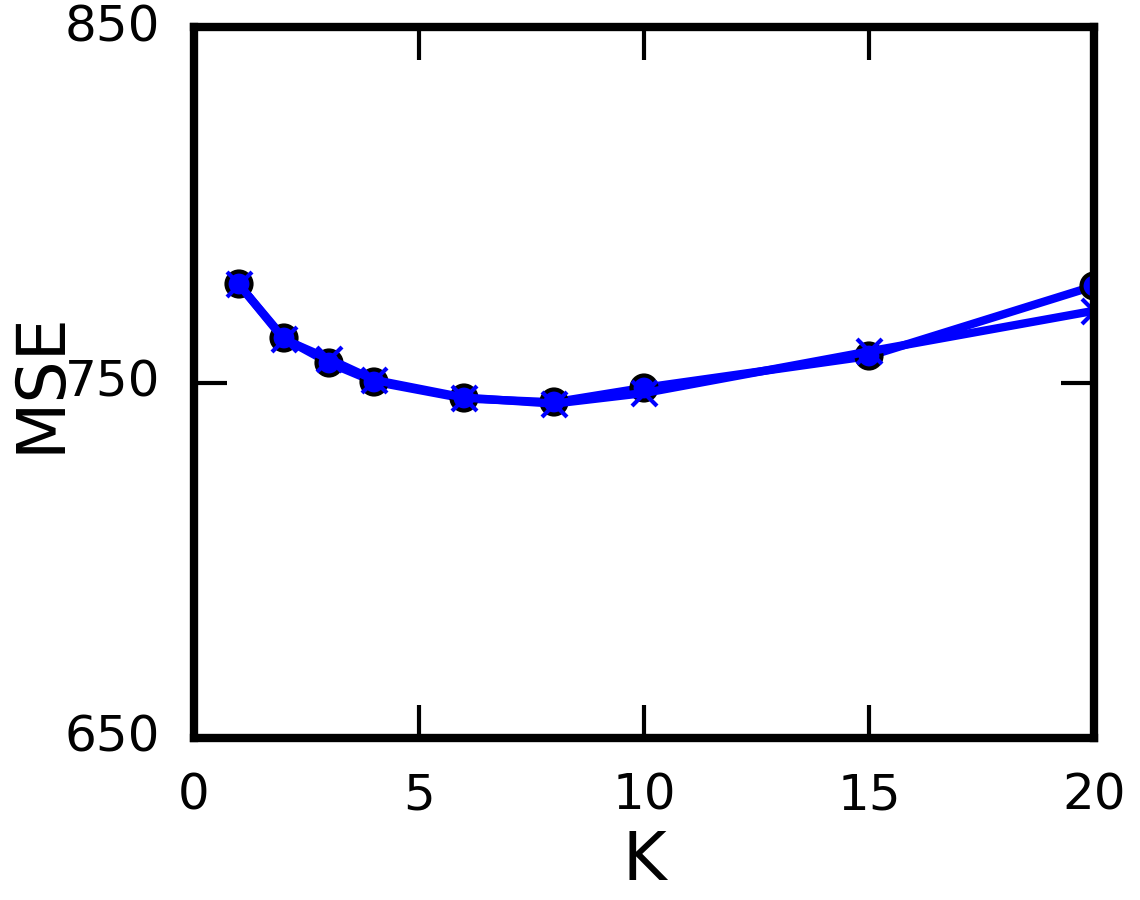
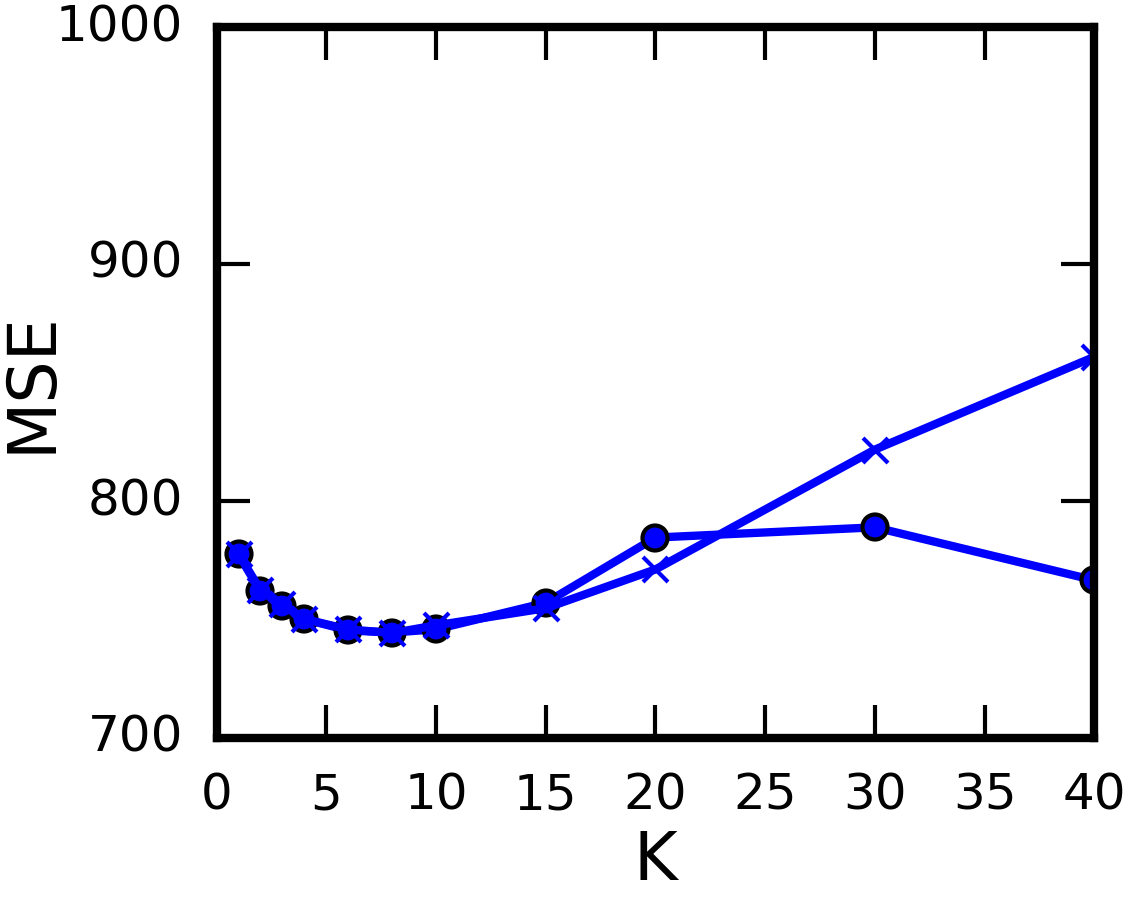
Ran cross-validation on CTRP for NMF methods.

diff --git a/experiments/experiments_ctrp/cross_validation/nmf_icm_ard/nmf_icm_ard_xval.py b/experiments/experiments_ctrp/cross_validation/nmf_icm_ard/nmf_icm_ard_xval.py
@@ -2,7 +2,7 @@
 Run the nested cross-validation for the ICM NMF class with ARD, on the CTRP dataset.
 """
 
-project_location = "/home/tab43/Documents/Projects/libraries/" # "/Users/thomasbrouwer/Documents/Projects/libraries/"
+project_location = "/Users/thomasbrouwer/Documents/Projects/libraries/"
 import sys
 sys.path.append(project_location)
 
@@ -21,11 +21,11 @@ alpha0, beta0 = 1., 1.
 hyperparams = { 'alphatau':alphatau, 'betatau':betatau, 'alpha0':alpha0, 'beta0':beta0, 'lambdaU':lambdaU, 'lambdaV':lambdaV }
 
 train_config = {
-    'iterations' : 200,
+    'iterations' : 500,
     'init_UV' : 'random',
 }
 predict_config = {
-    'burn_in' : 180,
+    'burn_in' : 450,
     'thinning' : 2,
 }
 parameters = {'K':K, 'ARD':ARD, 'hyperparameters':hyperparams}

diff --git a/experiments/experiments_ctrp/model_selection/plots/plot_nmf_gibbs_model_selection.py b/experiments/experiments_ctrp/model_selection/plots/plot_nmf_gibbs_model_selection.py
@@ -8,8 +8,8 @@ import numpy
 
 ''' Plot settings. '''
 metrics = ['MSE']#['MSE','R^2','Rp']
-MSE_min, MSE_max = 650, 850
-values_K = [1,2,3,4,6,8,10,15,20]
+MSE_min, MSE_max = 700, 1000
+values_K = [1,2,3,4,6,8,10,15,20,30,40]
 
 folder_plots = "./"
 folder_results = "./../results/"
@@ -25,7 +25,7 @@ gibbs_ard_performances = eval(open(folder_results+'nmf_gibbs_ard.txt','r').read(
 
 for metric in metrics:
     fig = plt.figure(figsize=(1.9,1.5))
-    fig.subplots_adjust(left=0.17, right=0.96, bottom=0.18, top=0.97)
+    fig.subplots_adjust(left=0.19, right=0.96, bottom=0.18, top=0.97)
     plt.xlabel("K", fontsize=8, labelpad=1)
     plt.ylabel(metric, fontsize=8, labelpad=-1)
     

diff --git a/experiments/experiments_ctrp/cross_validation/nmf_gibbs/nmf_gibbs_nested_xval.py b/experiments/experiments_ctrp/cross_validation/nmf_gibbs/nmf_gibbs_nested_xval.py
@@ -2,7 +2,7 @@
 Run the nested cross-validation for the Gibbs NMF class, on the CTRP dataset.
 """
 
-project_location = "/home/tab43/Documents/Projects/libraries/" # "/Users/thomasbrouwer/Documents/Projects/libraries/"
+project_location = "/Users/thomasbrouwer/Documents/Projects/libraries/"
 import sys
 sys.path.append(project_location)
 
@@ -30,7 +30,7 @@ predict_config = {
 
 
 ''' Settings nested cross-validation. '''
-K_range = [8,9,10,11,12]
+K_range = [6,7,8]
 no_folds = 10
 no_threads = 5
 parallel = False

diff --git a/experiments/experiments_ctrp/cross_validation/nmf_np/nmf_np_nested_xval.py b/experiments/experiments_ctrp/cross_validation/nmf_np/nmf_np_nested_xval.py
@@ -2,7 +2,7 @@
 Run the nested cross-validation for the NP NMF class, on the CTRP dataset.
 """
 
-project_location = "/home/tab43/Documents/Projects/libraries/" # "/Users/thomasbrouwer/Documents/Projects/libraries/"
+project_location = "/Users/thomasbrouwer/Documents/Projects/libraries/"
 import sys
 sys.path.append(project_location)
 
@@ -21,7 +21,7 @@ predict_config = {}
 
 
 ''' Settings nested cross-validation. '''
-K_range = [4,5,6,7,8]
+K_range = [1,2,3,4]
 no_folds = 10
 no_threads = 5
 parallel = False

diff --git a/experiments/experiments_ctrp/cross_validation/nmf_vb/nmf_vb_nested_xval.py b/experiments/experiments_ctrp/cross_validation/nmf_vb/nmf_vb_nested_xval.py
@@ -2,7 +2,7 @@
 Run the nested cross-validation for the VB NMF class, on the CTRP dataset.
 """
 
-project_location = "/home/tab43/Documents/Projects/libraries/" # "/Users/thomasbrouwer/Documents/Projects/libraries/"
+project_location = "/Users/thomasbrouwer/Documents/Projects/libraries/"
 import sys
 sys.path.append(project_location)
 
@@ -27,7 +27,7 @@ predict_config = {}
 
 
 ''' Settings nested cross-validation. '''
-K_range = [4,5,6,7,8,9]
+K_range = [5,6,7]
 no_folds = 10
 no_threads = 5
 parallel = False

diff --git a/experiments/experiments_ctrp/cross_validation/nmf_icm/nmf_icm_nested_xval.py b/experiments/experiments_ctrp/cross_validation/nmf_icm/nmf_icm_nested_xval.py
@@ -2,7 +2,7 @@
 Run the nested cross-validation for the Gibbs NMF class, on the CTRP dataset.
 """
 
-project_location = "/home/tab43/Documents/Projects/libraries/" # "/Users/thomasbrouwer/Documents/Projects/libraries/"
+project_location = "/Users/thomasbrouwer/Documents/Projects/libraries/"
 import sys
 sys.path.append(project_location)
 
@@ -30,7 +30,7 @@ predict_config = {
 
 
 ''' Settings nested cross-validation. '''
-K_range = [3,4,5,6]
+K_range = [3,4,5]
 no_folds = 10
 no_threads = 5
 parallel = False

diff --git a/experiments/experiments_ctrp/model_selection/plots/plot_nmf_icm_model_selection.py b/experiments/experiments_ctrp/model_selection/plots/plot_nmf_icm_model_selection.py
@@ -25,7 +25,7 @@ gibbs_ard_performances = eval(open(folder_results+'nmf_icm_ard.txt','r').read())
 
 for metric in metrics:
     fig = plt.figure(figsize=(1.9,1.5))
-    fig.subplots_adjust(left=0.17, right=0.96, bottom=0.18, top=0.97)
+    fig.subplots_adjust(left=0.19, right=0.96, bottom=0.18, top=0.97)
     plt.xlabel("K", fontsize=8, labelpad=1)
     plt.ylabel(metric, fontsize=8, labelpad=-1)
     

diff --git a/experiments/experiments_ctrp/model_selection/plots/plot_nmf_vb_model_selection.py b/experiments/experiments_ctrp/model_selection/plots/plot_nmf_vb_model_selection.py
@@ -25,7 +25,7 @@ gibbs_ard_performances = eval(open(folder_results+'nmf_vb_ard.txt','r').read())
 
 for metric in metrics:
     fig = plt.figure(figsize=(1.9,1.5))
-    fig.subplots_adjust(left=0.17, right=0.96, bottom=0.18, top=0.97)
+    fig.subplots_adjust(left=0.19, right=0.96, bottom=0.18, top=0.97)
     plt.xlabel("K", fontsize=8, labelpad=1)
     plt.ylabel(metric, fontsize=8, labelpad=-1)
     

diff --git a/experiments/experiments_ctrp/cross_validation/nmf_gibbs_ard/nmf_gibbs_ard_xval.py b/experiments/experiments_ctrp/cross_validation/nmf_gibbs_ard/nmf_gibbs_ard_xval.py
@@ -2,7 +2,7 @@
 Run the nested cross-validation for the Gibbs NMF class with ARD, on the CTRP dataset.
 """
 
-project_location = "/home/tab43/Documents/Projects/libraries/" # "/Users/thomasbrouwer/Documents/Projects/libraries/"
+project_location = "/Users/thomasbrouwer/Documents/Projects/libraries/"
 import sys
 sys.path.append(project_location)
 

diff --git a/experiments/experiments_ctrp/cross_validation/nmf_vb_ard/nmf_vb_ard_xval.py b/experiments/experiments_ctrp/cross_validation/nmf_vb_ard/nmf_vb_ard_xval.py
@@ -2,7 +2,7 @@
 Run the nested cross-validation for the VB NMF class with ARD, on the CTRP dataset.
 """
 
-project_location = "/home/tab43/Documents/Projects/libraries/" # "/Users/thomasbrouwer/Documents/Projects/libraries/"
+project_location = "/Users/thomasbrouwer/Documents/Projects/libraries/"
 import sys
 sys.path.append(project_location)
 
